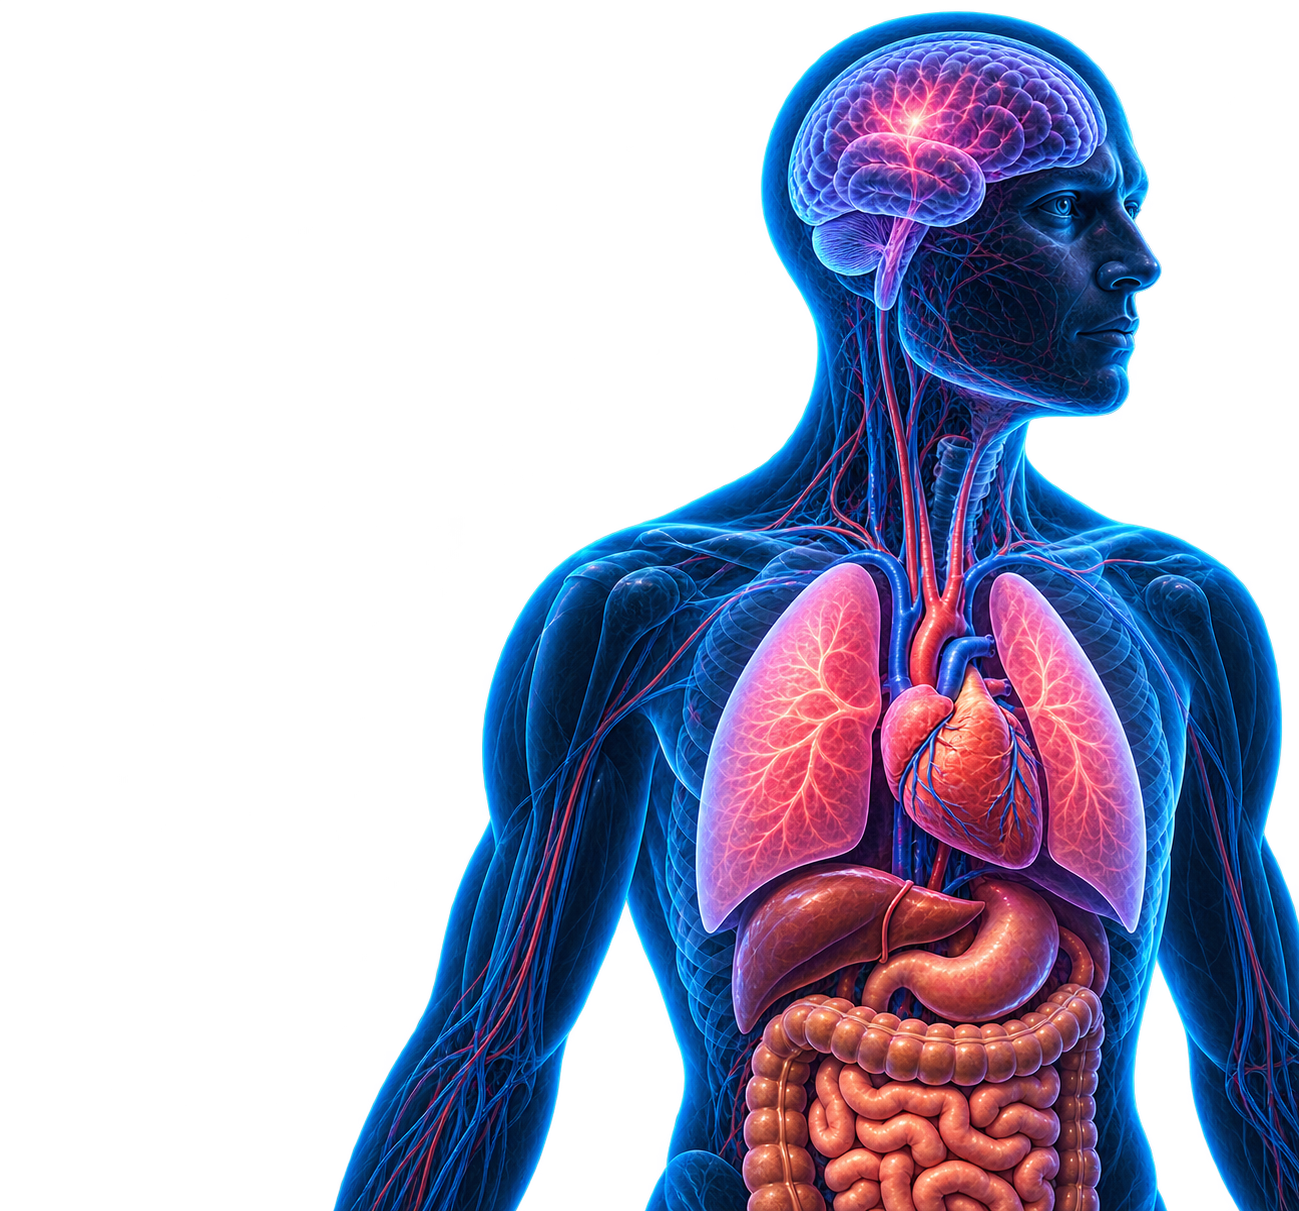
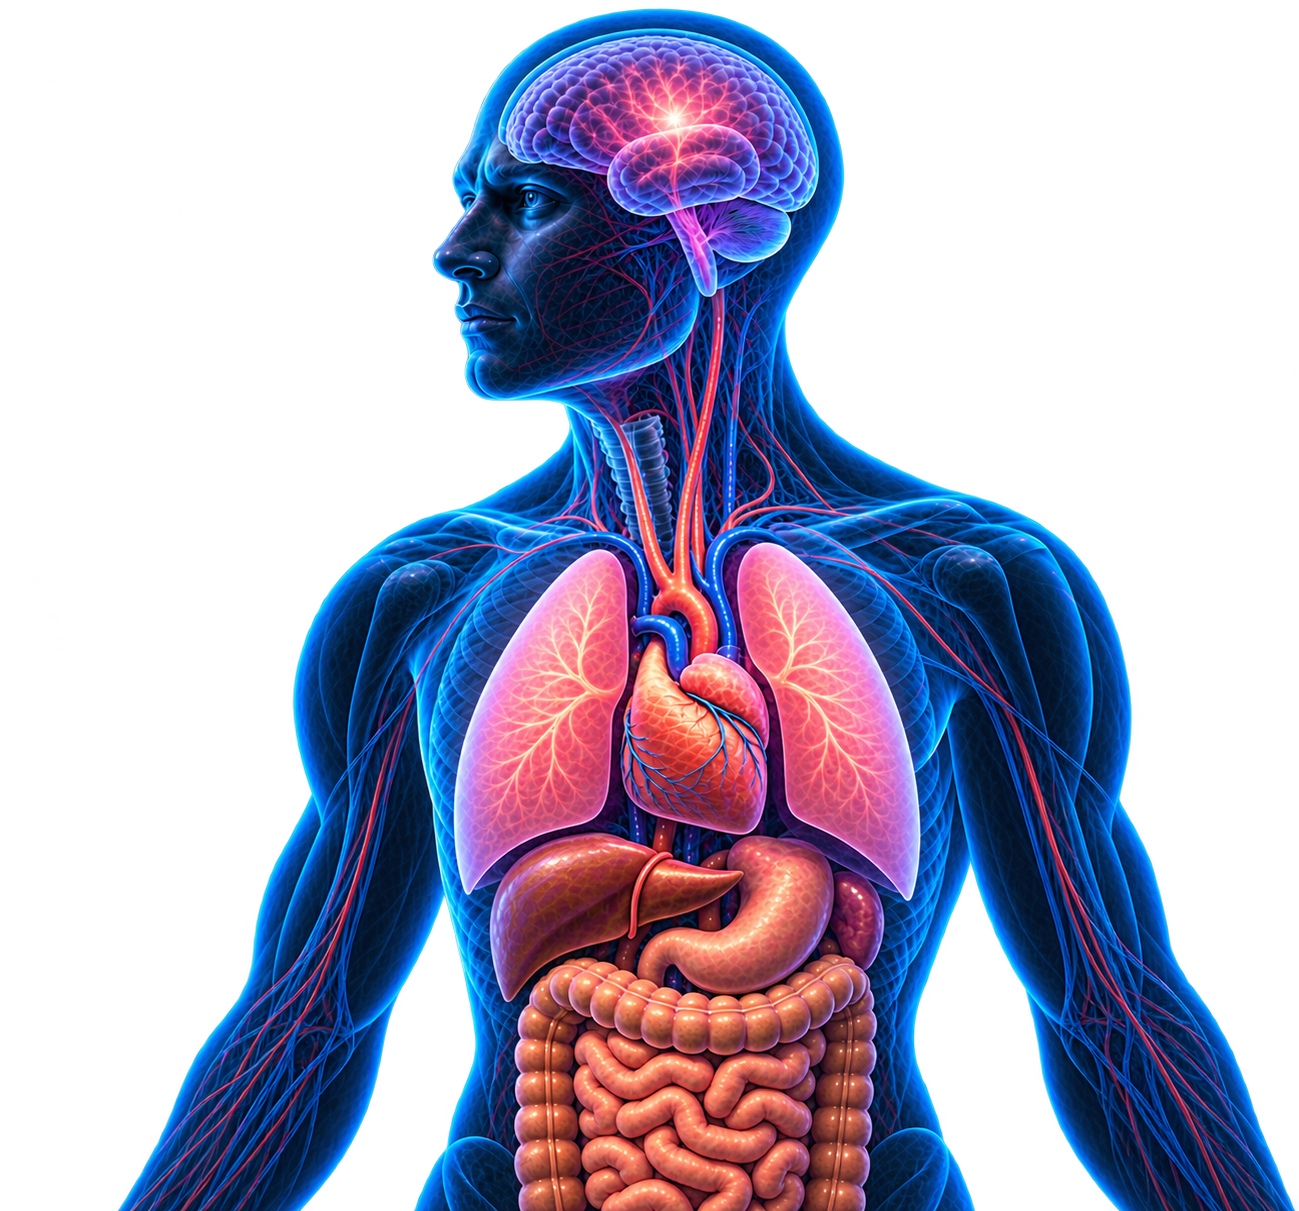
fix(web): correct home anatomy orientation and mobile sizing

diff --git a/apps/web/src/features/recovery-dashboard/components/HeroFigure.tsx b/apps/web/src/features/recovery-dashboard/components/HeroFigure.tsx
@@ -5,13 +5,11 @@ interface HeroFigureProps {
 }
 
 /**
- * Decorative bust. The source faces right; scaleX turns it toward the copy.
+ * Decorative bust. The source faces left, toward the copy, without a CSS flip.
  * Lighten drops the file's black field into the canvas.
  *
- * After the flip the body occupies the left three quarters of the image and
- * the rest is empty black. The wrapper is sized to that body, and its
- * overflow only clips the empty tail on the right. The face stays inside
- * the left edge, so the anatomy is not sliced.
+ * The body sits on the left of the frame. Overflow only clips empty space on
+ * the right. The face stays inside the left edge, so the anatomy is not sliced.
  */
 export function HeroFigure({ className, fadeBottom = false }: HeroFigureProps) {
   return (
@@ -27,7 +25,7 @@ export function HeroFigure({ className, fadeBottom = false }: HeroFigureProps) {
         src="/images/anatomy/soma-hero.png"
         alt=""
         draggable={false}
-        className="absolute left-0 top-0 h-full w-auto max-w-none -scale-x-100 object-contain object-left mix-blend-lighten"
+        className="absolute left-0 top-0 h-full w-auto max-w-none object-contain object-left mix-blend-lighten"
       />
     </div>
   );

diff --git a/apps/web/src/features/recovery-dashboard/dashboard/adapt-live-dashboard.test.ts b/apps/web/src/features/recovery-dashboard/dashboard/adapt-live-dashboard.test.ts
@@ -717,6 +717,11 @@ test("home daily summary does not repeat recovery analysis widgets", () => {
   assert.equal(home.includes("SystemTile"), false);
   assert.equal(home.includes("RecentChangeCard"), false);
   assert.match(home, /HeroFigure/);
+  const hero = readFileSync(
+    new URL("../components/HeroFigure.tsx", import.meta.url),
+    "utf8",
+  );
+  assert.equal(hero.includes("-scale-x-100"), false);
   assert.match(home, /HeroFilaments/);
   assert.match(home, /fadeBottom/);
   assert.match(home, /lg:grid-cols-\[minmax\(0,3fr\)_minmax\(14rem,2fr\)\]/);
@@ -724,7 +729,7 @@ test("home daily summary does not repeat recovery analysis widgets", () => {
   assert.equal(home.includes("sm:h-28 sm:w-20 lg:hidden"), false);
   assert.match(
     home,
-    /h-\[min\(26rem,calc\(100dvh-14rem\)\)\] min-h-\[min\(16rem,calc\(100dvh-14rem\)\)\].*lg:hidden/,
+    /h-\[min\(17\.5rem,calc\(\(100vw-2rem\)\*0\.932\),calc\(100dvh-16rem\)\)\].*lg:hidden/,
   );
   assert.match(home, /absolute inset-0 z-\[1\]/);
   assert.match(home, /hidden min-h-\[20rem\] overflow-hidden lg:block/);

diff --git a/apps/web/src/features/recovery-dashboard/components/PreviewHome.tsx b/apps/web/src/features/recovery-dashboard/components/PreviewHome.tsx
@@ -257,7 +257,7 @@ function HomeStage({
         <HomeHeader demo={demo} message={message} />
         <div
           aria-hidden="true"
-          className="relative isolate h-[min(26rem,calc(100dvh-14rem))] min-h-[min(16rem,calc(100dvh-14rem))] w-full min-w-0 overflow-hidden lg:hidden"
+          className="relative isolate h-[min(17.5rem,calc((100vw-2rem)*0.932),calc(100dvh-16rem))] w-full min-w-0 overflow-hidden lg:hidden"
         >
           <HeroFigure className="absolute inset-0 z-[1]" fadeBottom />
         </div>
